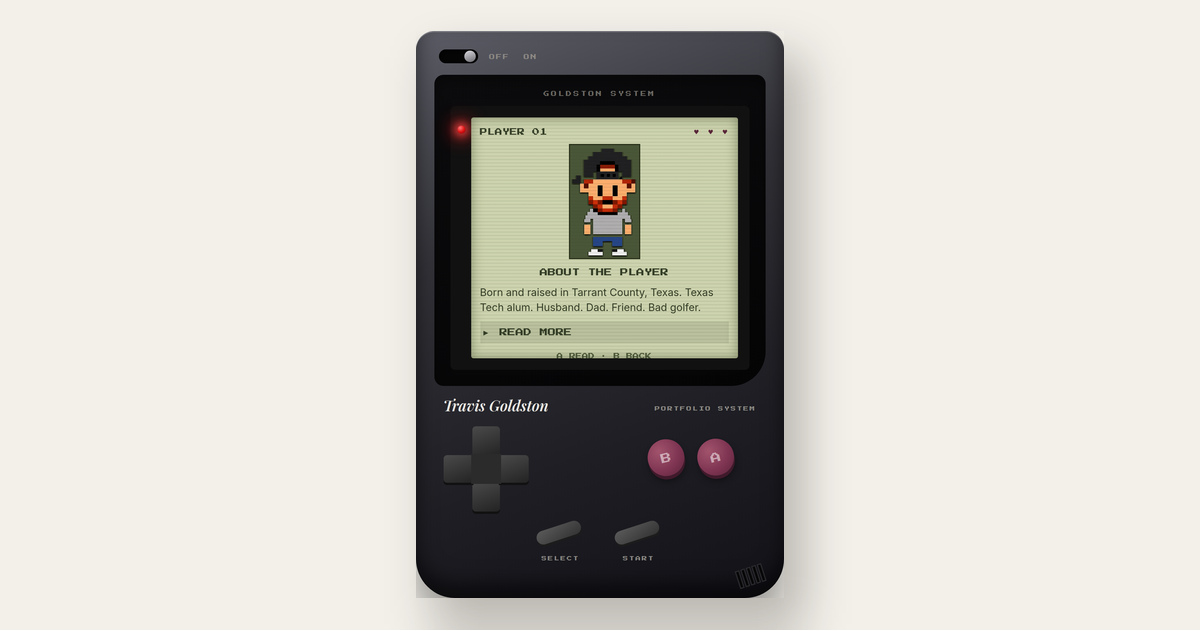
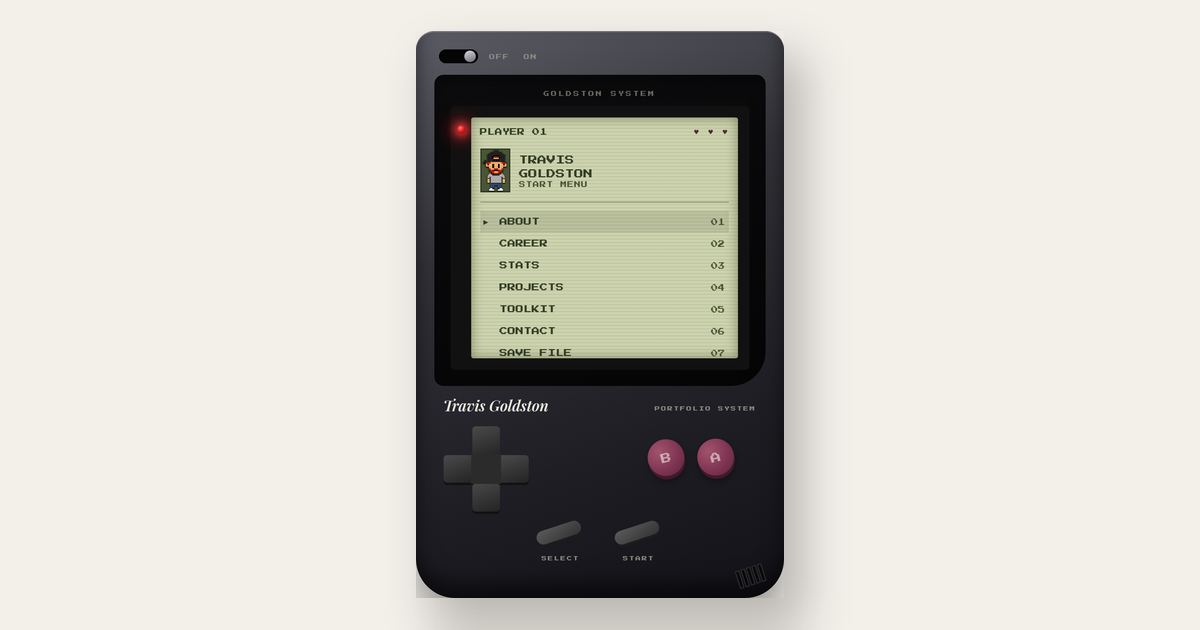
Show the start menu on the social share image
The link preview handheld now sits on PLAYER 01 / ABOUT–SAVE FILE instead of the About page.

Changed region(s): [[0.4008, 0.2111, 0.6167, 0.573], [0.5242, 0.5429, 0.555, 0.573]]

diff --git a/index.html b/index.html
@@ -15,12 +15,12 @@
 <meta property="og:image:type" content="image/png">
 <meta property="og:image:width" content="1200">
 <meta property="og:image:height" content="630">
-<meta property="og:image:alt" content="Travis Goldston’s Game Boy-style Pocketfolio, with pixel Travis on the screen">
+<meta property="og:image:alt" content="Travis Goldston’s Game Boy-style Pocketfolio on the start menu, with pixel Travis on the screen">
 <meta name="twitter:card" content="summary_large_image">
 <meta name="twitter:title" content="Travis Goldston — VP of Customer Experience, AI + SEO Enthusiast">
 <meta name="twitter:description" content="VP of Customer Experience, AI + SEO Enthusiast.">
 <meta name="twitter:image" content="https://travisgoldston.com/assets/images/og-handheld.png">
-<meta name="twitter:image:alt" content="Travis Goldston’s Game Boy-style Pocketfolio, with pixel Travis on the screen">
+<meta name="twitter:image:alt" content="Travis Goldston’s Game Boy-style Pocketfolio on the start menu, with pixel Travis on the screen">
 <script type="application/ld+json">
 {"@context":"https://schema.org","@type":"Person","name":"Travis Goldston","url":"https://travisgoldston.com/","image":"https://travisgoldston.com/assets/images/og-handheld.png","jobTitle":"Vice President of Customer Experience","worksFor":{"@type":"Organization","name":"Romex Pest Control"},"alumniOf":{"@type":"CollegeOrUniversity","name":"Texas Tech University"},"address":{"@type":"PostalAddress","addressLocality":"Eagle Mountain","addressRegion":"UT"},"sameAs":["https://www.linkedin.com/in/travisgoldston","https://github.com/travisgoldston"]}
 </script>
